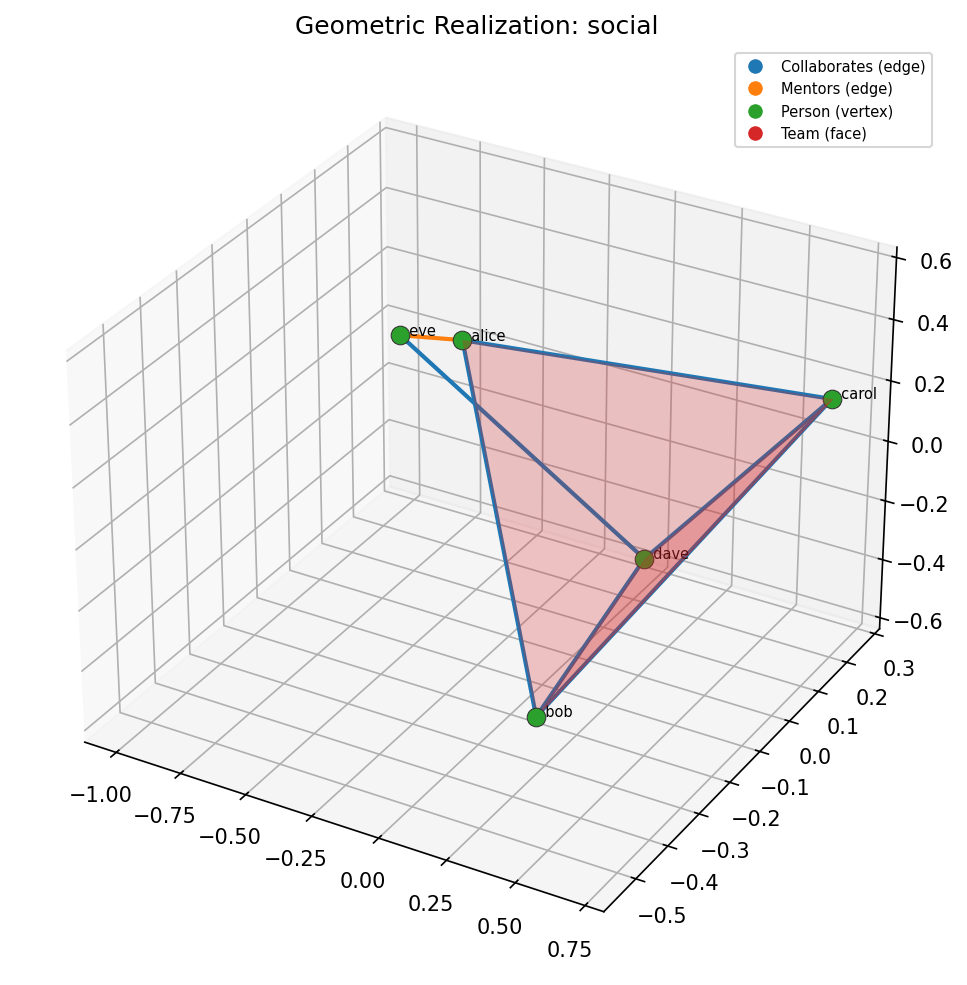
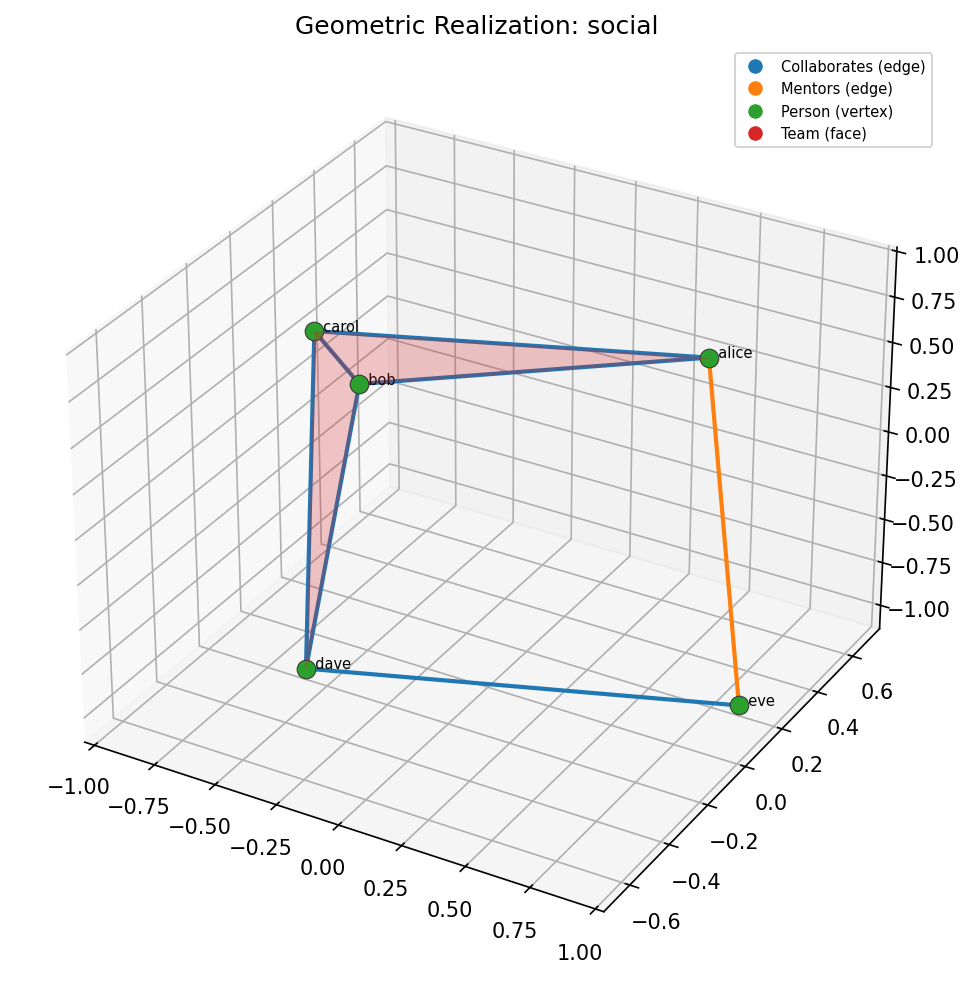
run examples, more user testing, cleaning

diff --git a/examples/01_quickstart/quickstart.py b/examples/01_quickstart/quickstart.py
@@ -58,20 +58,11 @@ print(f"  β₁ = {betti_before[1]} independent cycles")
 print(f"  Euler characteristic: {euler_characteristic(kc)}")
 print()
 
-# ── 4. Declare a face type and fill in faces ─────────────────────────────
+# ── 4. Fill in faces using the declared face types ────────────────────────
 
-# The two triangles have distinct semantics:
+# The schema already declares two face types:
 #   operation:  actor + activity + input resource  (requires/accesses)
 #   production: actor + activity + output resource (produces/responsible)
-kc._schema.add_face_type("operation")
-kc._schema.add_face_type("production")
-
-# After extending the schema, refresh the internal graphs so the new types
-# are visible to SPARQL queries and SHACL validation.
-kc._ont_graph.parse(data=kc._schema.dump_owl(), format="turtle")
-kc._instance_graph.parse(data=kc._schema.dump_owl(), format="turtle")
-kc._shacl_graph.parse(data=kc._schema.dump_shacl(), format="turtle")
-
 # Inspect the triangles to decide which type each gets.
 # The input triangle uses "requires" + "accesses" edges → operation
 # The output triangle uses "produces" + "responsible" edges → production

diff --git a/knowledgecomplex/clique.py b/knowledgecomplex/clique.py
@@ -299,9 +299,6 @@ def fill_cliques(
 
     # k>2: higher-order generic simplices
     if max_order >= 3:
-        from rdflib import URIRef, RDF
-        _KC_NS = kc._instance_graph.namespace_manager.store
-
         for dim in range(3, max_order + 1):
             cliques = find_cliques(kc, k=dim + 1, edge_type=edge_type)
             added: list[str] = []

diff --git a/knowledgecomplex/viz.py b/knowledgecomplex/viz.py
@@ -608,7 +608,7 @@ def plot_geometric(
         The matplotlib Figure and Axes3D.
     """
     _, plt = _require_mpl()
-    from mpl_toolkits.mplot3d.art3d import Poly3DCollection, Line3DCollection
+    from mpl_toolkits.mplot3d.art3d import Poly3DCollection
 
     colors = type_color_map(kc)
     pos = _vertex_positions_3d(kc)

diff --git a/knowledgecomplex/diff.py b/knowledgecomplex/diff.py
@@ -28,7 +28,7 @@ from __future__ import annotations
 import re
 from typing import TYPE_CHECKING, Any
 
-from rdflib import Graph, Namespace, URIRef, Literal, RDF, RDFS, XSD
+from rdflib import Graph, Namespace, URIRef, Literal, RDF, XSD
 
 if TYPE_CHECKING:
     from knowledgecomplex.graph import KnowledgeComplex

diff --git a/knowledgecomplex/schema.py b/knowledgecomplex/schema.py
@@ -17,7 +17,7 @@ dump_owl() and dump_shacl() return merged (core + user) Turtle strings.
 
 from __future__ import annotations
 import shutil
-from dataclasses import dataclass, field
+from dataclasses import dataclass
 from pathlib import Path
 from typing import Any, Protocol, runtime_checkable
 
